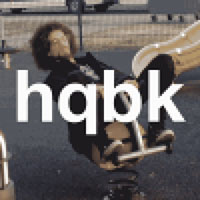
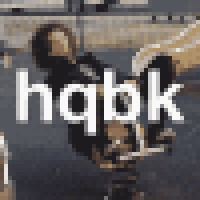
Calculate downgrade level based on source image size

diff --git a/src/downgrade.js b/src/downgrade.js
@@ -1,6 +1,13 @@
 const fileExists = require('file-exists');
 const gm = require('gm').subClass({ imageMagick: true });
 
+function calculateReduction(width, height) {
+  return {
+    width: Math.sqrt(width * 12.5),
+    height: Math.sqrt(height * 12.5)
+  };
+}
+
 function getSize(image) {
   return new Promise((resolve, reject) => {
     image.size((error, size) => {
@@ -41,11 +48,17 @@ function downgrade(source, destination, options = {}) {
 
     resolve(getSize(image)
       .then((size) => {
+        const { width, height } = size;
+        const {
+          width: newWidth,
+          height: newHeight
+        } = calculateReduction(width, height);
+
         image.colors(8)
-             .scale(100, 100);
+             .scale(newWidth, newHeight);
 
         if (options.maintainSize) {
-          image.scale(size.width, size.height);
+          image.scale(width, height);
         }
 
         return saveImage(image, destination);
